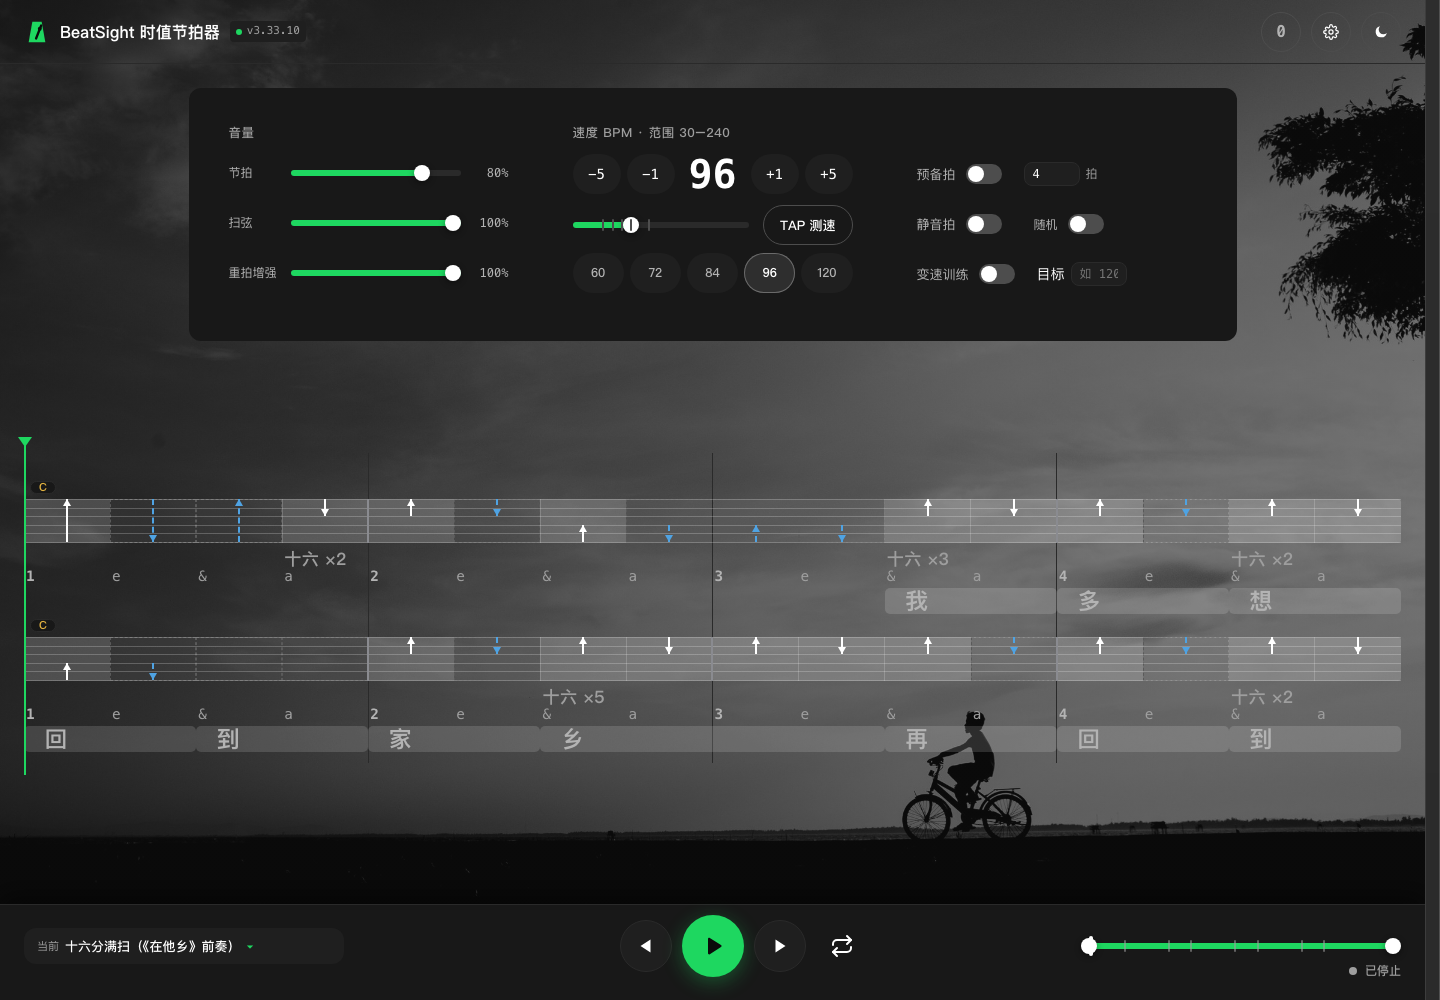
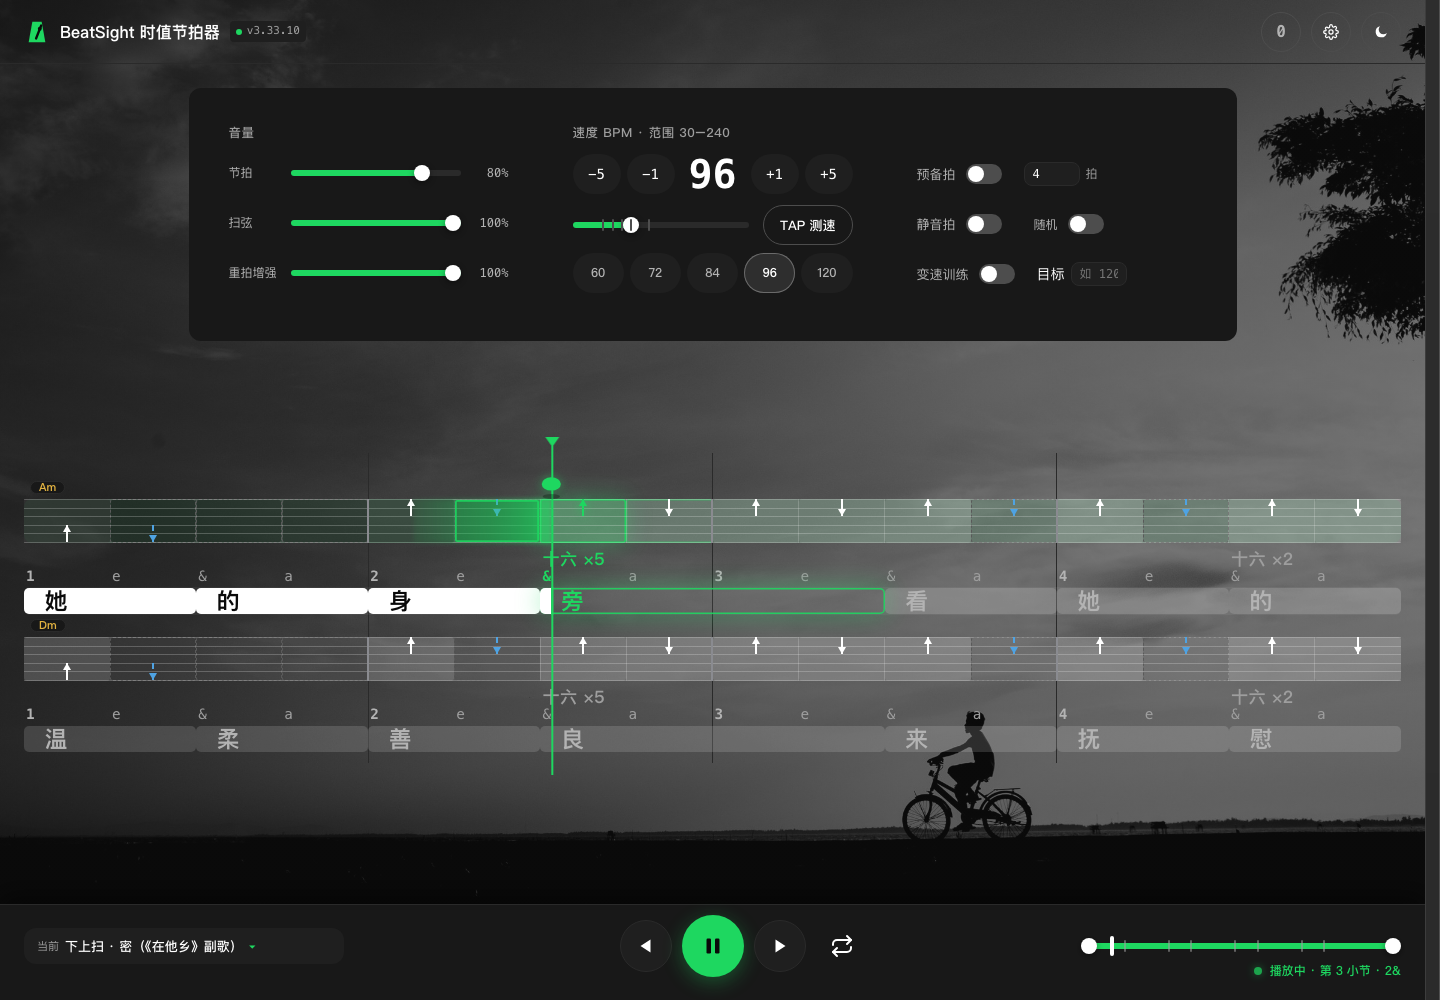
docs(README): 配图改为播放态重拍（播放头/高亮/弹跳球在位）并更新版本串
主界面/日间/曲式/窄屏四张改为播放中拍摄（Controls.start() 后 2.2s 截图，播放头与当前拍高亮可见），与 README 中「播放中的当前拍高亮」「整首连播中」等文案一致；编排面板与编辑器两张保持静止态。版本串 20261005b -> 20261005c。自验 check-all 全绿。

diff --git a/README.md b/README.md
@@ -43,21 +43,21 @@ BeatSight 的做法是把节奏**画出来**：每颗音是一个块，块宽与
     <td width="50%"><b>曲式模式</b> ·《在他乡》整首连播中</td>
   </tr>
   <tr>
-    <td><picture><source media="(prefers-color-scheme: dark)" srcset="docs/assets/shot-main-dark.png?v=20261005b"><img src="docs/assets/shot-main-light.png?v=20261005b" alt="主界面：时值可视化网格，播放中的当前拍高亮，顶部有弹跳球落点提示"></picture></td>
-    <td><img src="docs/assets/shot-arrange-dark.png?v=20261005b" alt="曲式模式：歌曲小节上的滚动窗口，扫弦方向箭头、和弦标记与歌词轨同屏"></td>
+    <td><picture><source media="(prefers-color-scheme: dark)" srcset="docs/assets/shot-main-dark.png?v=20261005c"><img src="docs/assets/shot-main-light.png?v=20261005c" alt="主界面：时值可视化网格，播放中的当前拍高亮，顶部有弹跳球落点提示"></picture></td>
+    <td><img src="docs/assets/shot-arrange-dark.png?v=20261005c" alt="曲式模式：歌曲小节上的滚动窗口，扫弦方向箭头、和弦标记与歌词轨同屏"></td>
   </tr>
   <tr>
     <td><b>曲式编排</b> · 歌曲地图 + 段落卡片 + 歌词对齐</td>
     <td><b>自定义编辑器</b> · 音符块库画自己的节奏型</td>
   </tr>
   <tr>
-    <td><img src="docs/assets/shot-panel-dark.png?v=20261005b" alt="曲式编排面板：歌曲地图、段卡片、每段的歌词摘要与和弦"></td>
-    <td><img src="docs/assets/shot-editor-dark.png?v=20261005b" alt="节奏型编辑器：音符块库任选时值，逐小节编辑，时值校验通过才能保存"></td>
+    <td><img src="docs/assets/shot-panel-dark.png?v=20261005c" alt="曲式编排面板：歌曲地图、段卡片、每段的歌词摘要与和弦"></td>
+    <td><img src="docs/assets/shot-editor-dark.png?v=20261005c" alt="节奏型编辑器：音符块库任选时值，逐小节编辑，时值校验通过才能保存"></td>
   </tr>
 </table>
 
 <p align="center">
-  <img src="docs/assets/shot-mobile-dark.png?v=20261005b" width="300" alt="手机端：窄屏下时值网格自动分片，扫弦箭头、歌词与当前拍高亮清晰可见"><br>
+  <img src="docs/assets/shot-mobile-dark.png?v=20261005c" width="300" alt="手机端：窄屏下时值网格自动分片，扫弦箭头、歌词与当前拍高亮清晰可见"><br>
   <sub>手机浏览器直开，窄屏自动分片。截图均为真实运行中的页面（应用内「经典」主题）。</sub>
 </p>
 
